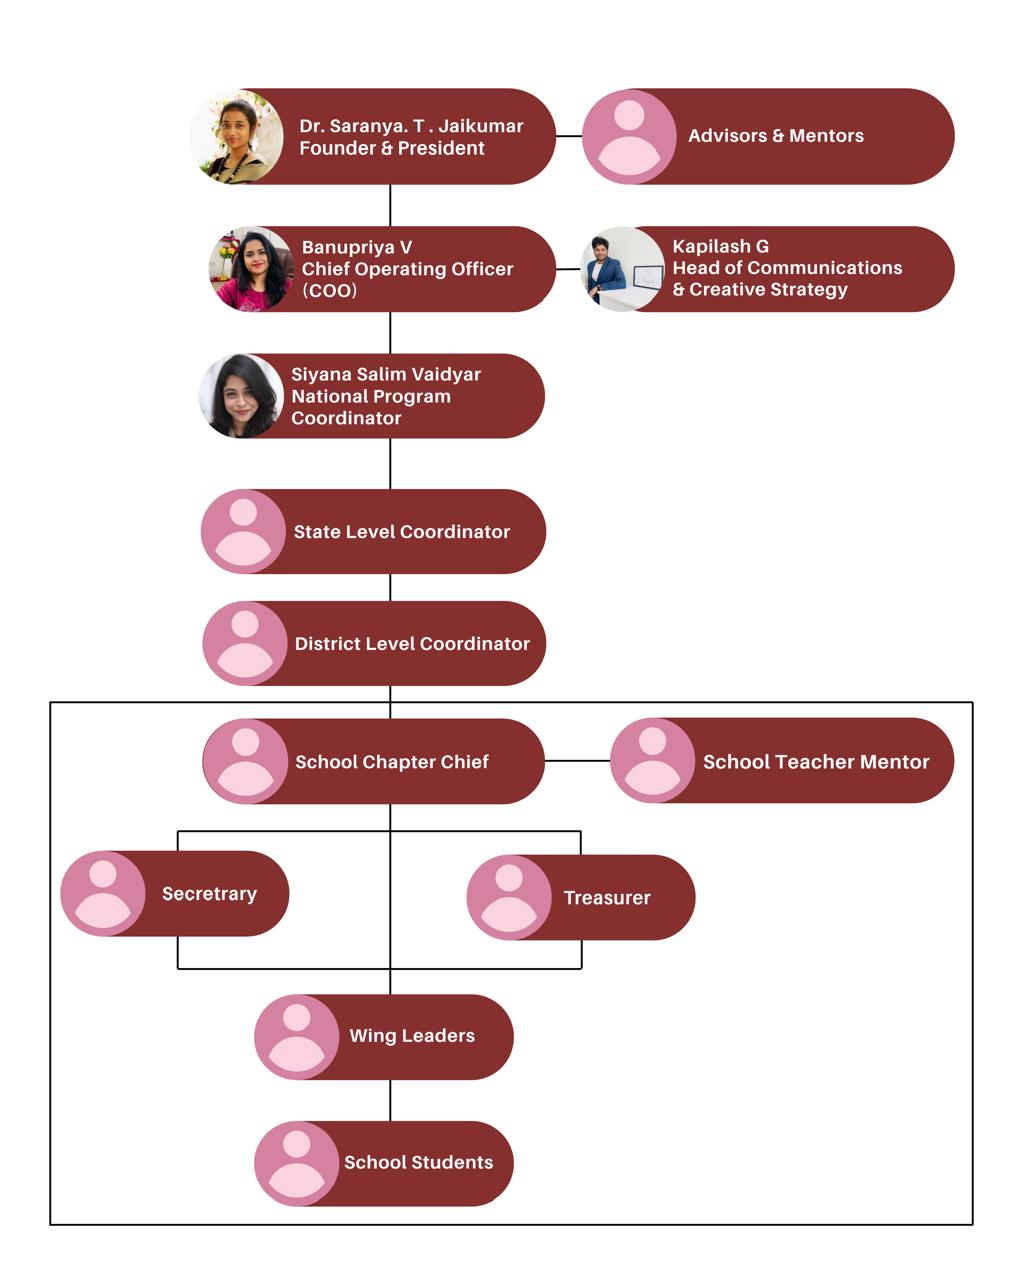
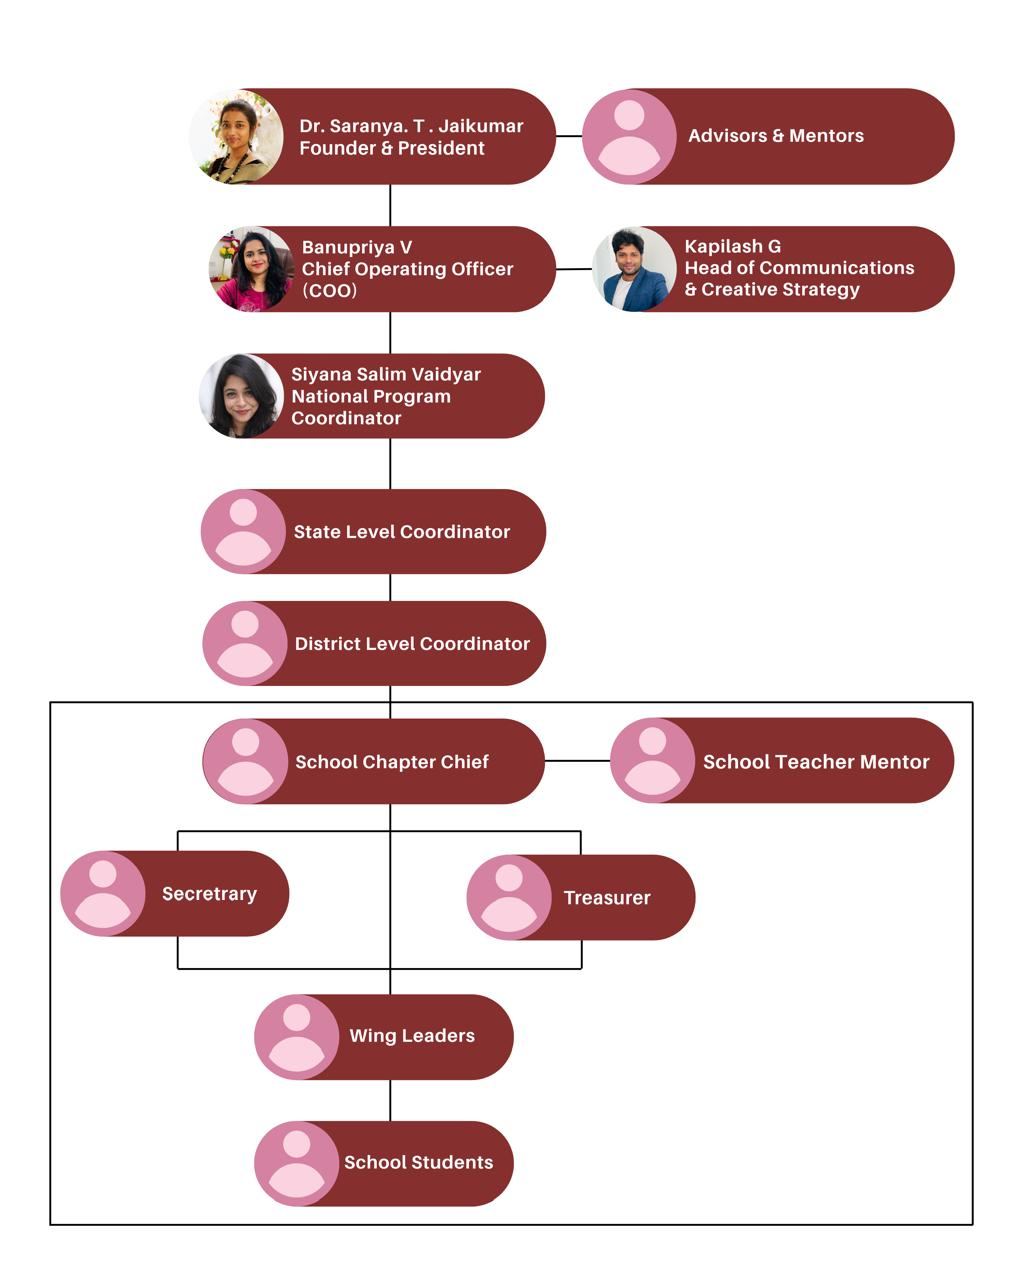
changes

Changed region(s): [[0.5455, 0.1562, 0.9091, 0.25]]

diff --git a/src/components/About/AboutPage.jsx b/src/components/About/AboutPage.jsx
@@ -126,7 +126,7 @@ const AboutPage = () => {
         </div>
 
         {/* 🔥 Full-width Vision Image with overlays */}
-        <div className={`relative w-full mt-6 sm:mt-12 ${visionVisible ? 'animate-fade-in-up animate-delay-300' : 'opacity-0'}`}>
+        <div className={`relative w-full mt-6 sm:mt-12 overflow-hidden ${visionVisible ? 'animate-fade-in-up animate-delay-300' : 'opacity-0'}`}>
 
           {/* Top shadow */}
 
@@ -135,7 +135,7 @@ const AboutPage = () => {
           <img
             src={visionImage}
             alt="Our Vision"
-            className="w-full h-auto block object-cover"
+            className="w-full h-auto block object-cover scale-x-110"
           />
 
           {/* Bottom red shade (Paint stroke effect) */}

diff --git a/src/components/OurApproach.jsx b/src/components/OurApproach.jsx
@@ -20,7 +20,7 @@ const OurApproach = () => {
             <div className="max-w-7xl mx-auto px-6 lg:px-10 lg:pl-15 w-full">
                 <div className="grid grid-cols-1 lg:grid-cols-2 gap-1 sm:gap-2 items-center">
                     {/* Left Column - Text Content */}
-                    <div className={`space-y-3 order-2 lg:order-1 ${isVisible ? 'animate-fade-in-left' : 'opacity-0'}`}>
+                    <div className={`space-y-6 pt-10 order-2 lg:order-1 ${isVisible ? 'animate-fade-in-left' : 'opacity-0'}`}>
                         <h2 className="text-[24px] leading-tight lg:text-[32px] font-extrabold text-[#1A1A1A]">
                             Our Approach
                         </h2>

diff --git a/src/components/EmpoweringYouth.jsx b/src/components/EmpoweringYouth.jsx
@@ -1,7 +1,7 @@
 import React, { useState } from 'react';
 import { useNavigate } from 'react-router-dom';
 import { useScrollAnimation } from '../hooks/useScrollAnimation';
-import smilesAndLearningImage from '../assets/smiles and learning all.png';
+import smilesAndLearningImage from '../assets/smiles and learning all.jpeg';
 import youthEmpowerSecondImg from '../assets/Youthempower second image.png';
 
 const EmpoweringYouth = () => {
